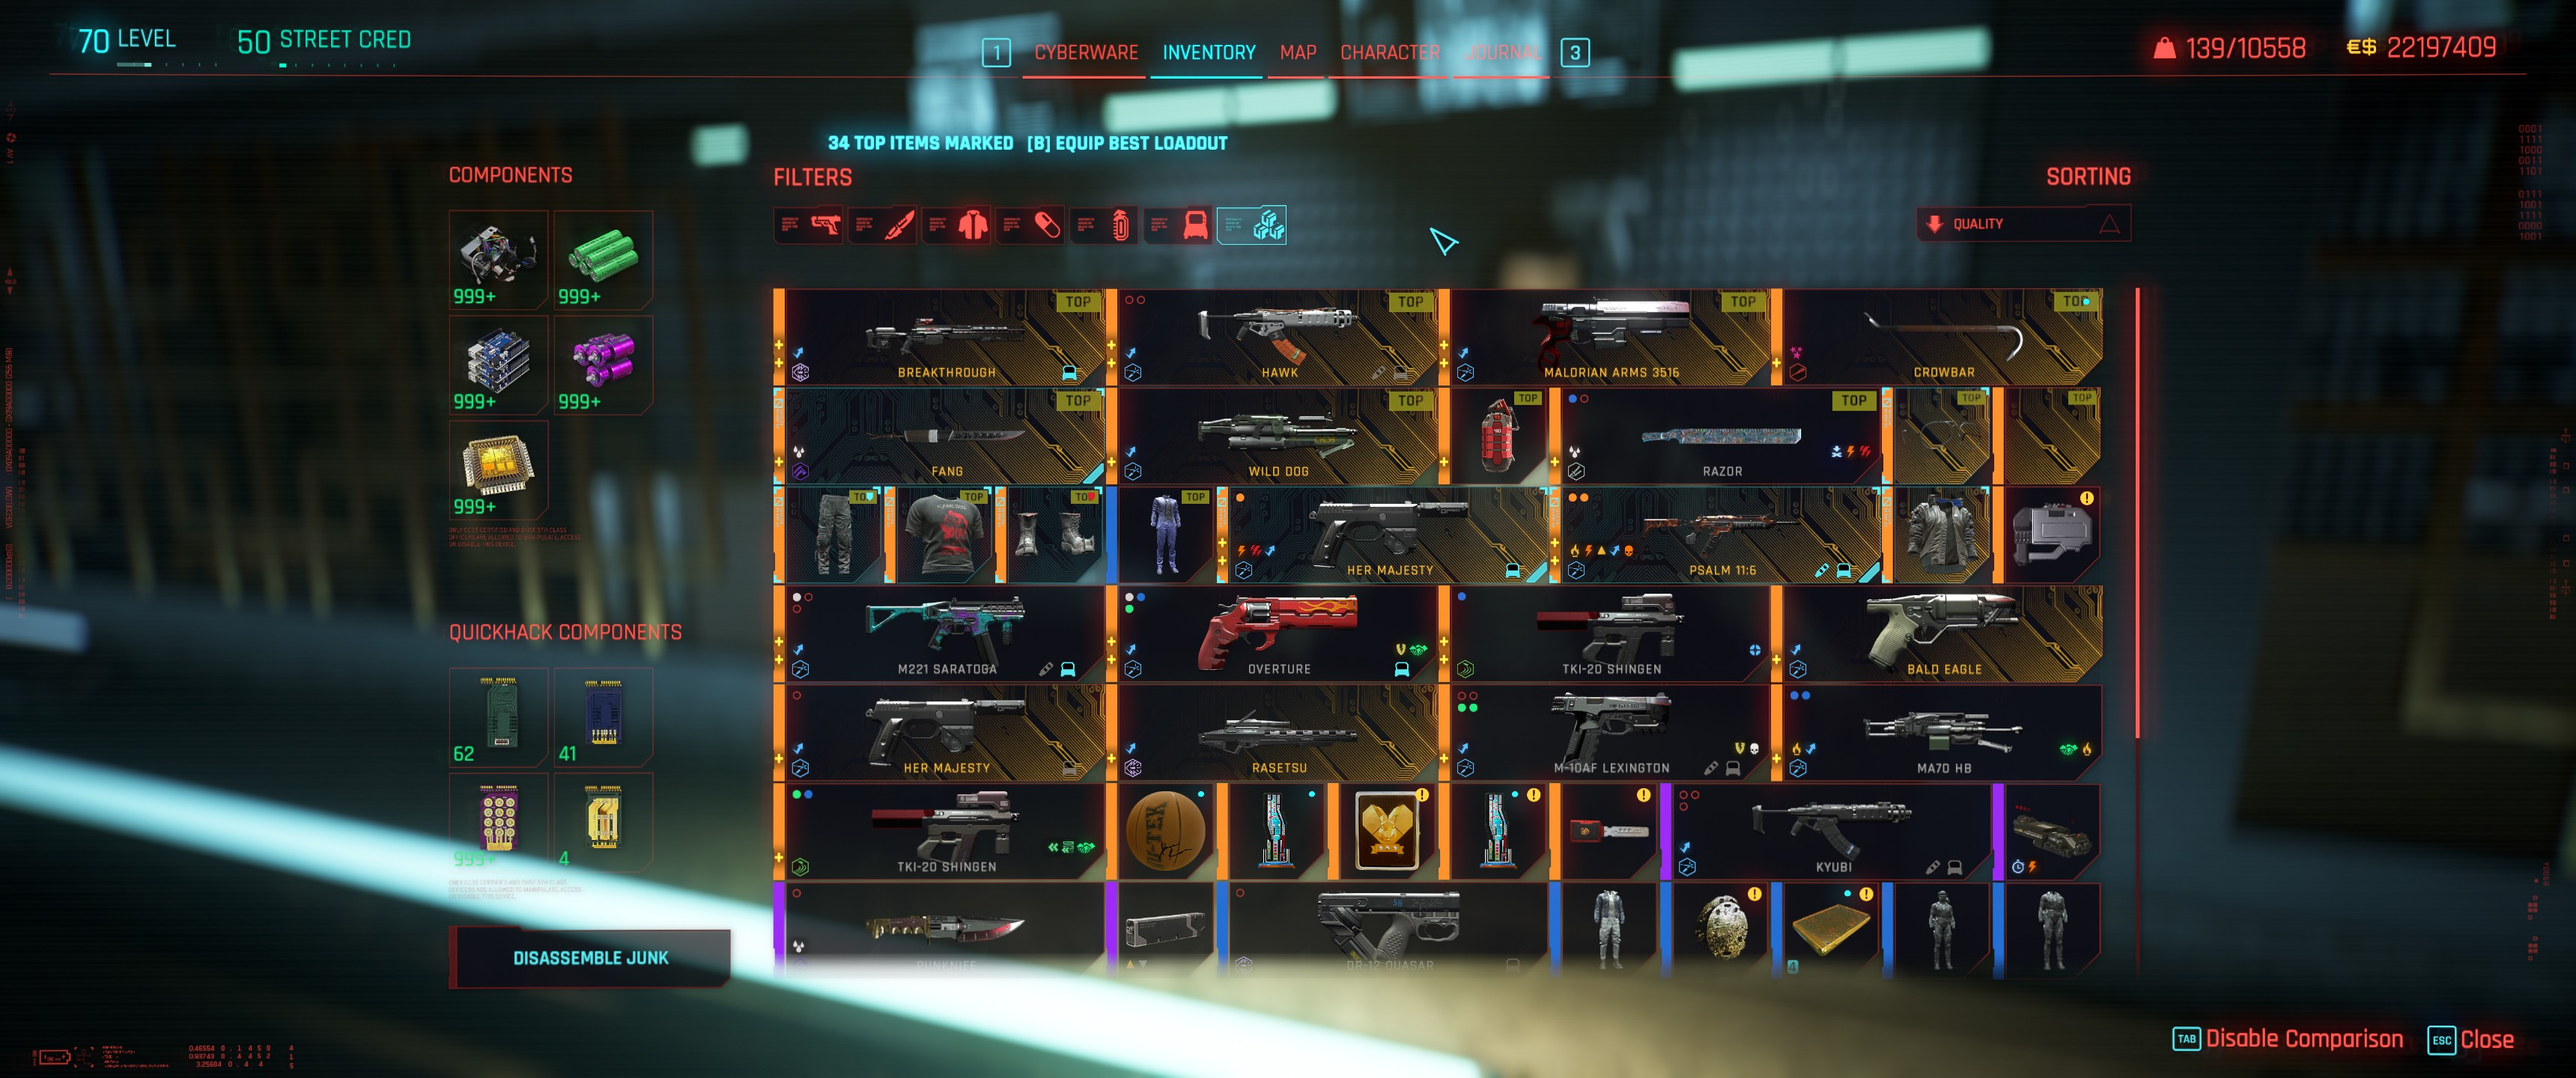
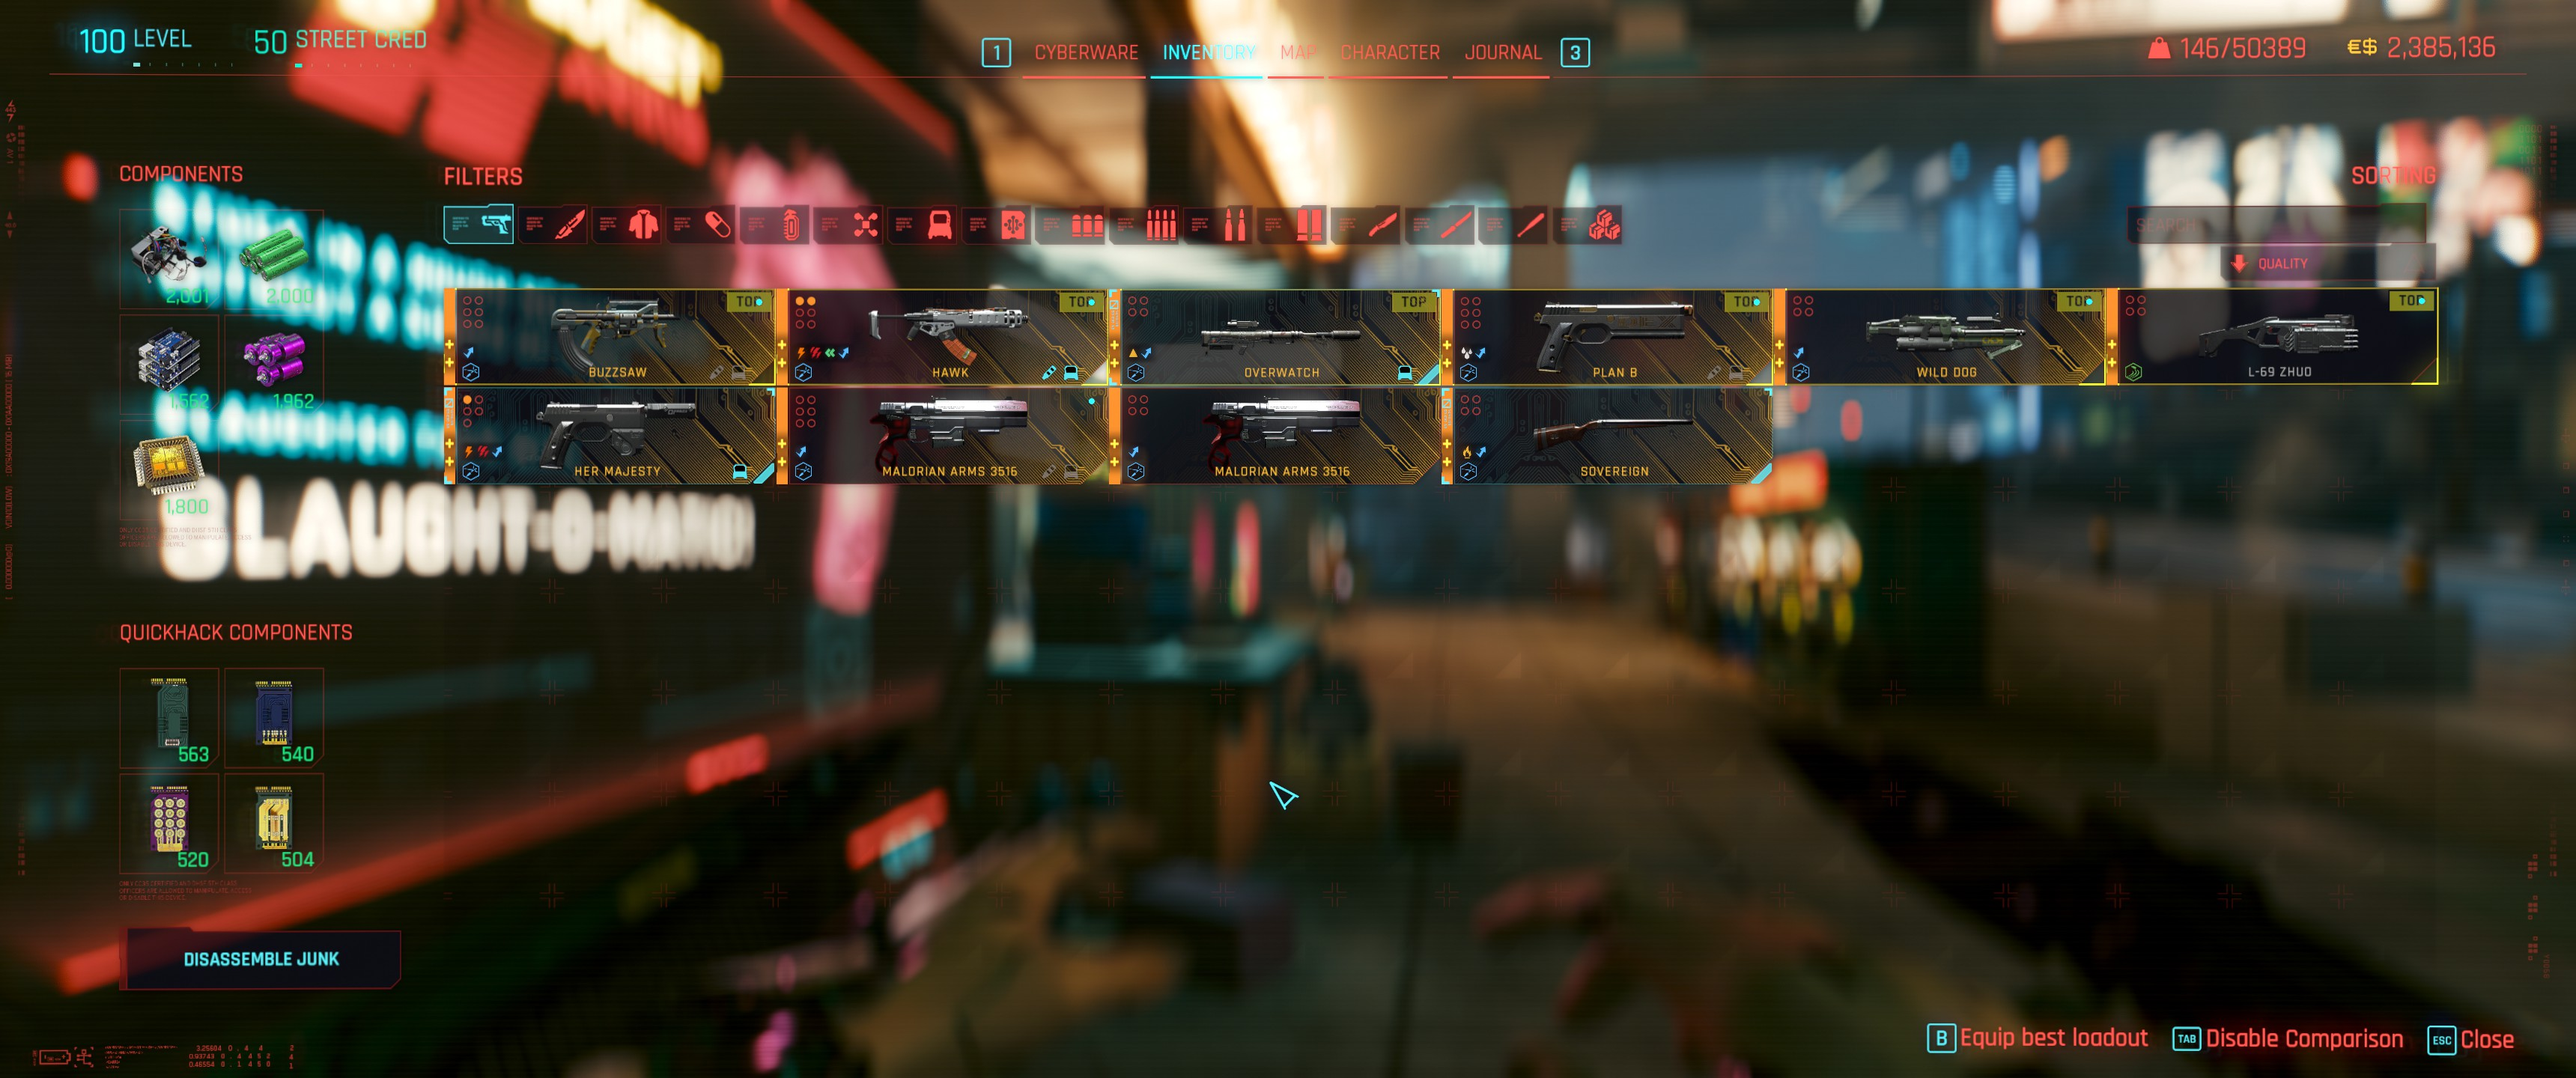
BestInSlot 1.5.0: gold frame, TOP per weapon family, hint bar keys, sell limit per press

diff --git a/CyberPunk/BestInSlot/README.md b/CyberPunk/BestInSlot/README.md
@@ -7,11 +7,11 @@
 Gold TOP tag on the best item of every category across all item screens, sorted to the top of the grid. One key equips the best loadout, another bulk-sells everything without the tag.
 
 ## ✨ Features
-- Gold TOP tag on every best item
-- Green (+) tag on items better than what you have equipped
+- Gold TOP tag and frame on every best item, one TOP per weapon family
+- Green (+) tag on items better than what you have equipped, also on vendor stock and loot
 - TOP items sorted to the top of the grid
 - B in the backpack or inventory - equip best loadout
-- N at vendors - sell non-TOP weapons and clothes
+- N at vendors - sell non-TOP weapons and clothes, 30 per press (selling hundreds of items to one vendor can crash the game; switch vendors)
 - Controller: shoulder + D-pad does the same
 - Rebindable keys and options in the Mod Settings menu (optional dependency)
 - English & PT-BR, following the game language
@@ -21,6 +21,8 @@ Gold TOP tag on the best item of every category across all item screens, sorted 
 ![screenshot](screenshots/03-vendor-bulk-sell.jpg)
 ![screenshot](screenshots/01-inventory-equip-best.jpg)
 ![screenshot](screenshots/04-mod-settings.jpg)
+![screenshot](screenshots/05-backpack-clothes.jpg)
+![screenshot](screenshots/06-quickhacks-top.jpg)
 
 ## 🌍 Translating
 Texts live in `Localization.reds`. To add a language, copy a package class, translate the
